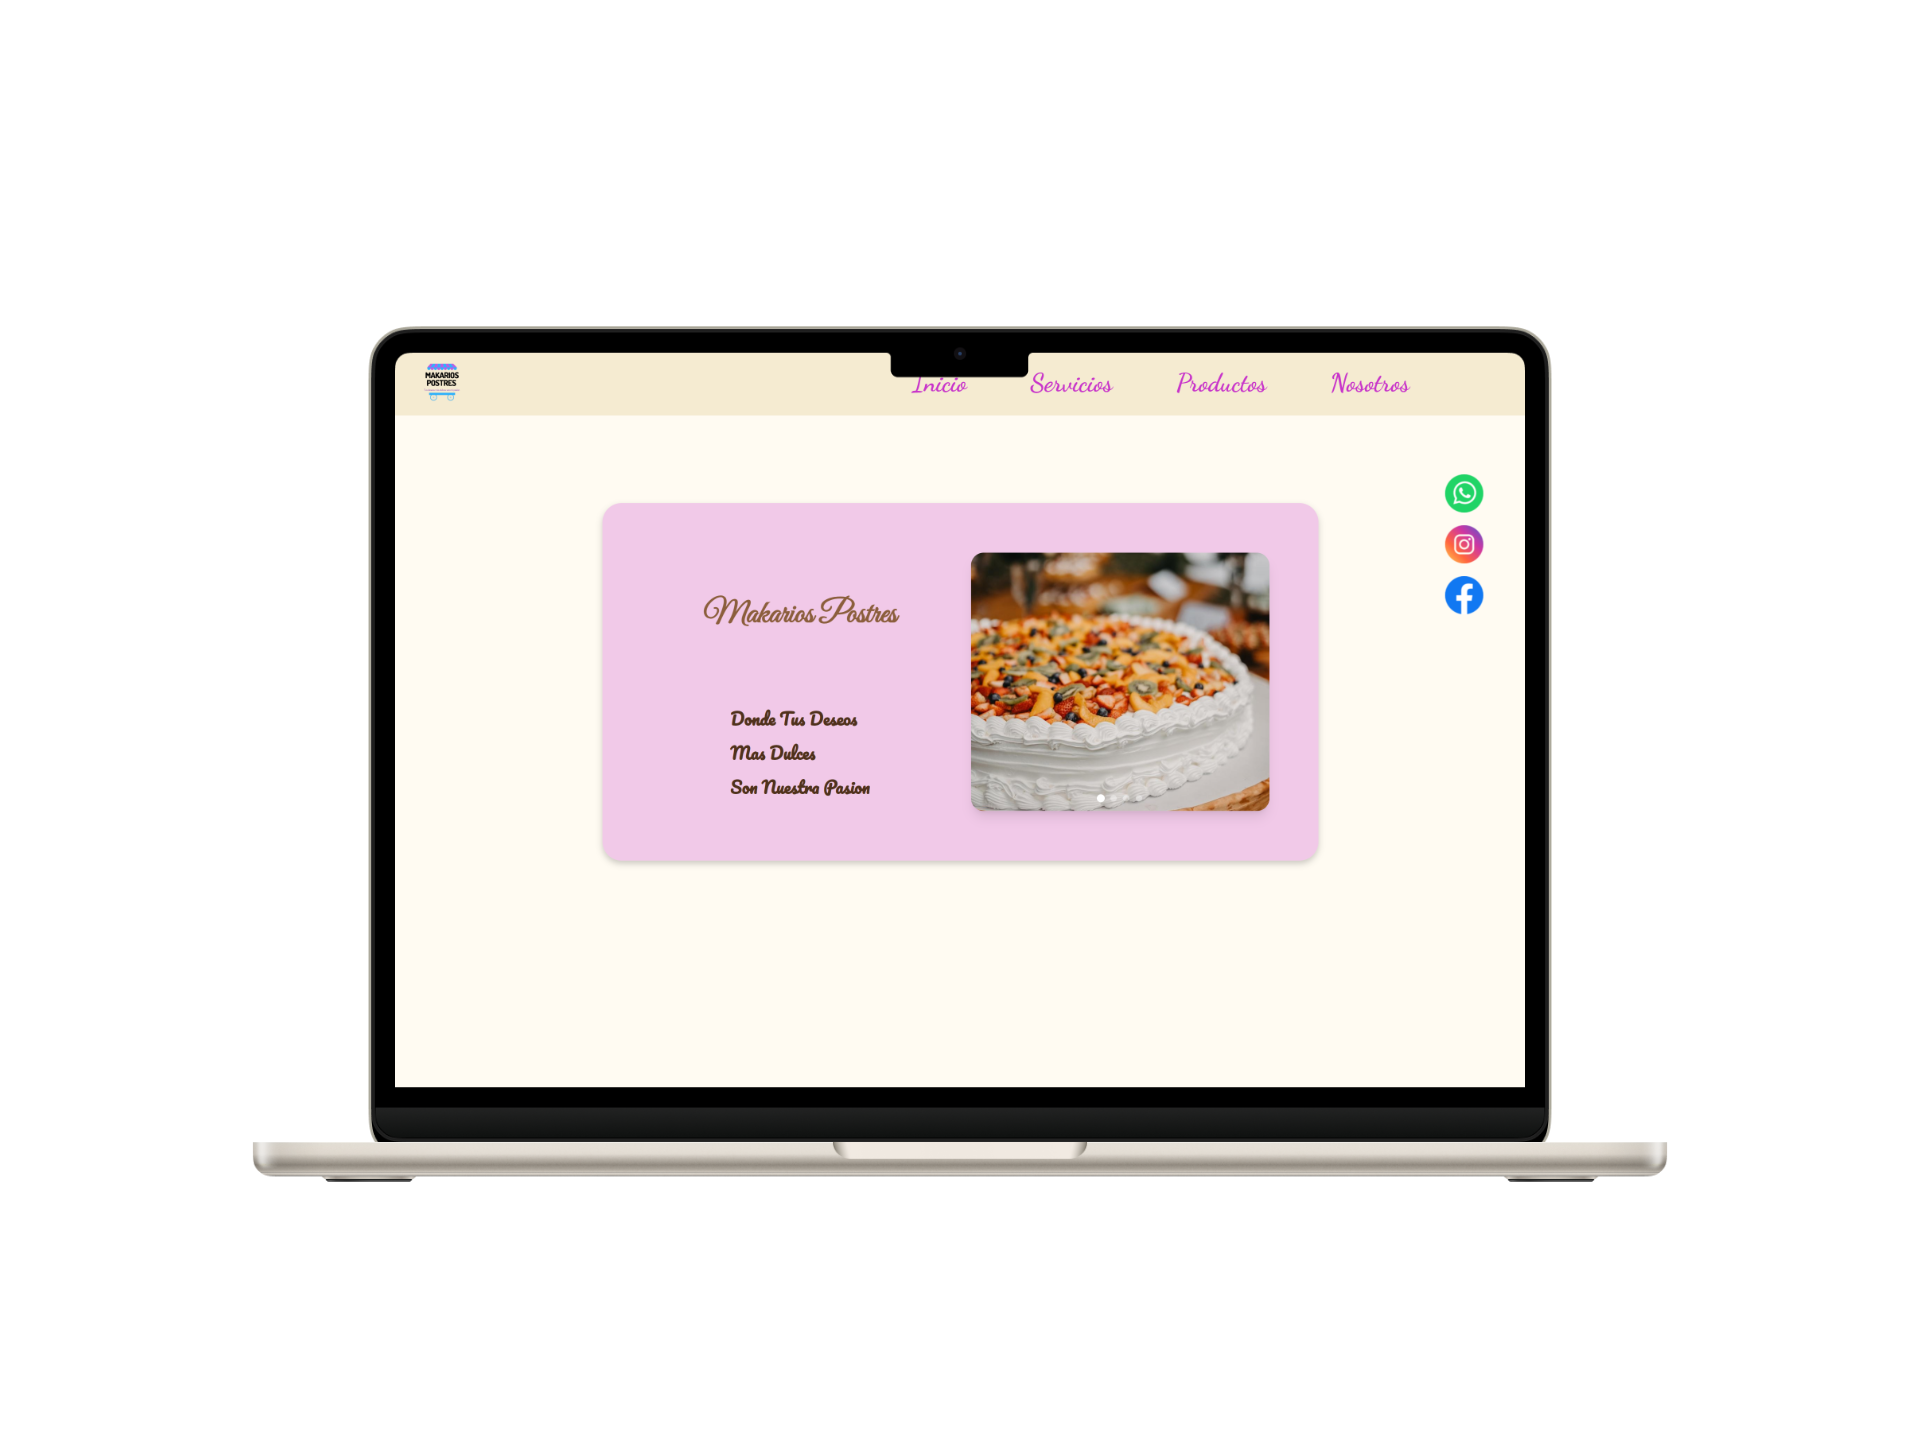
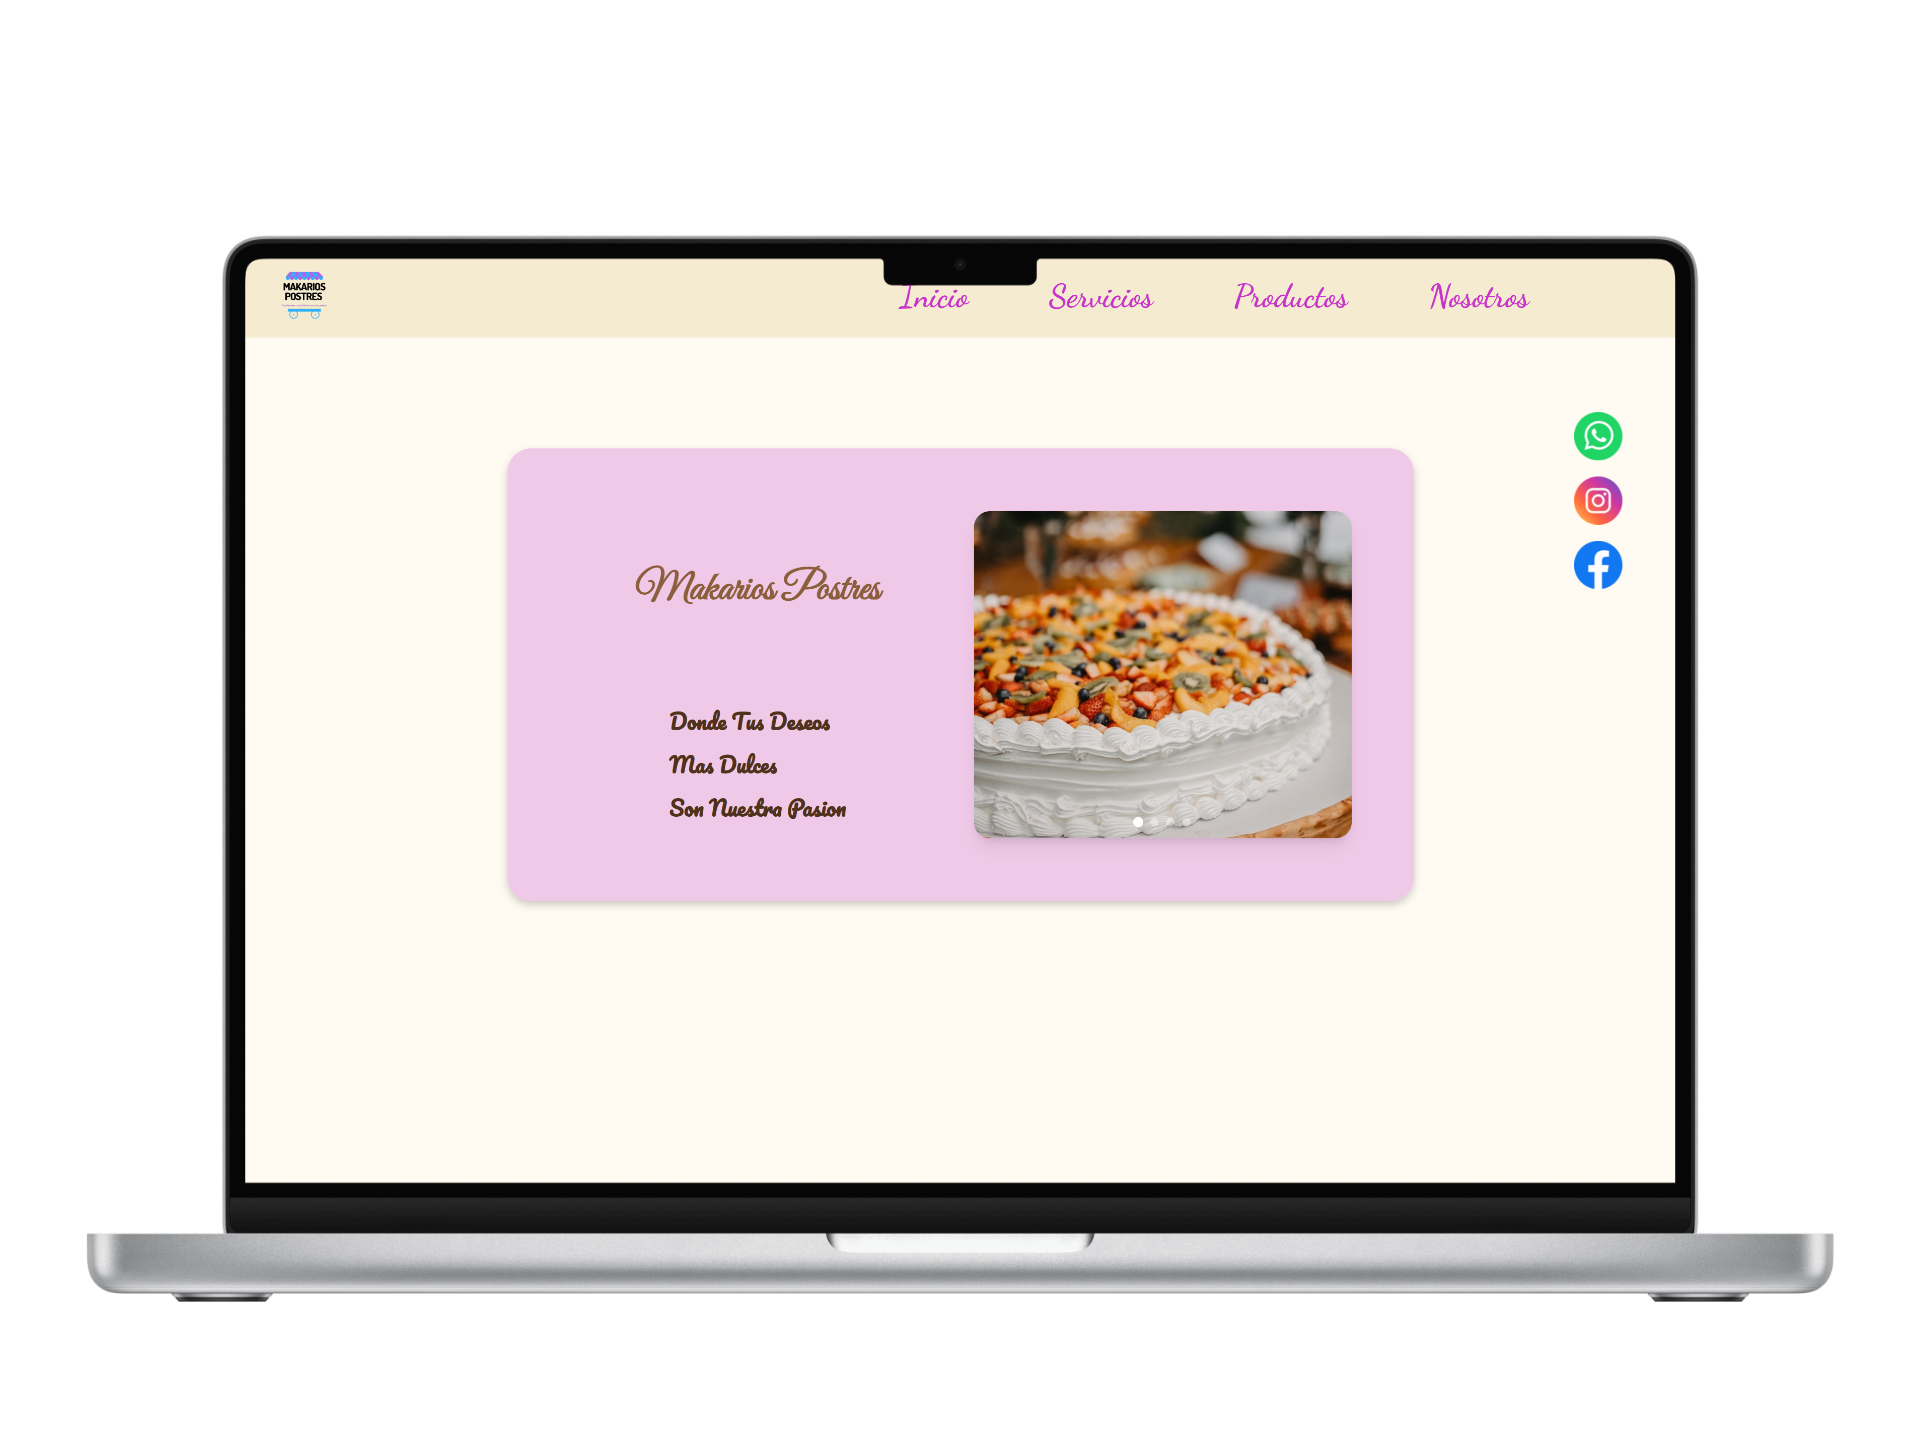
I added another project and made some improvement for SEO

diff --git a/client/src/projects/Projects.jsx b/client/src/projects/Projects.jsx
@@ -10,6 +10,15 @@ const projectsData = [
         laptopImg: "/assets/makarios-laptop.png",
         phoneImg: "/assets/makarios-mobile.png",
         badges: [{ icon: "/assets/performance-icon.png", text: "98/100" }, { icon: "/assets/responsive-icon.png", text: "Mobile-First" }, { icon: "/assets/tools-icon.png", text: "Vite + Tailwind" }]
+    },
+
+    {
+        id: 2,
+        title: "Best Friend Veterinary Clinic",
+        description: "Designed a responsive, <span class='highlight'>user-friendly</span> landing page for a modern veterinary clinic using HTML, CSS, JavaScript, and Bootstrap. The site features an intuitive appointment booking form, a clear services overview, and a personalized team section. The design emphasizes building <span class='highlight'>trust and streamlining</span> the onboarding process for new clients across all devices.",
+        laptopImg: "/assets/bestFriend-laptop.png",
+        phoneImg: "/assets/bestFriend-mobile.png",
+        badges: [{ icon: "/assets/performance-icon.png", text: "98/100" }, { icon: "/assets/responsive-icon.png", text: "Mobile-First" }, { icon: "/assets/tools-icon.png", text: "HTML + CSS + JS" }]
     }
 
 ];
@@ -64,7 +73,7 @@ const Projects = () => {
                             initial="enter"
                             animate="center"
                             exit="exit"
-                            transition={{ x: { type: "spring", stiffness: 300, damping: 30 }, opacity: { duration: 0.3 } }}
+                            transition={{ x: { type: "spring", stiffness: 200, damping: 30 }, opacity: { duration: 0.2 } }}
                             drag="x"
                             dragConstraints={{ left: 0, right: 0 }}
                             dragElastic={1}
@@ -96,8 +105,8 @@ const Projects = () => {
 
                             {/* MOCKUPS RIGHT */}
                             <div className="relative flex justify-center items-center h-[250px] md:h-[350px] select-none pointer-events-none">
-                                <img src={current.laptopImg} className="w-[130%] lg:w-[130%] h-auto z-10 drop-shadow-2xl" alt="" />
-                                <img src={current.phoneImg} className="absolute right-[-15px] bottom-[25px] lg:right-[-26px] lg:bottom-[-15px] w-[130px] md:w-[270px] z-20 drop-shadow-2xl" alt="" />
+                                <img src={current.laptopImg} className="w-full lg:w-full  h-auto z-10 drop-shadow-2xl object-contain " alt="" />
+                                <img src={current.phoneImg} className="absolute right-[-15px] bottom-[25px] lg:right-[-80px] lg:bottom-[-40px] w-[130px] lg:w-[50%] z-20 drop-shadow-2xl" alt="" />
                             </div>
                         </motion.div>
                     </AnimatePresence>

diff --git a/client/index.html b/client/index.html
@@ -3,6 +3,8 @@
 
 <head>
   <meta charset="UTF-8" />
+  <meta name="description"
+    content="Explore Ivan Romano's portfolio of high-performance wegit b solutions. Specialized in React, Vite, and SEO-driven development to streamline business growth and user onboarding. View my latest projects today." />
   <link rel="stylesheet" href="./index.css" />
   <link rel="preconnect" href="https://fonts.googleapis.com">
   <link rel="preconnect" href="https://fonts.gstatic.com" crossorigin>
